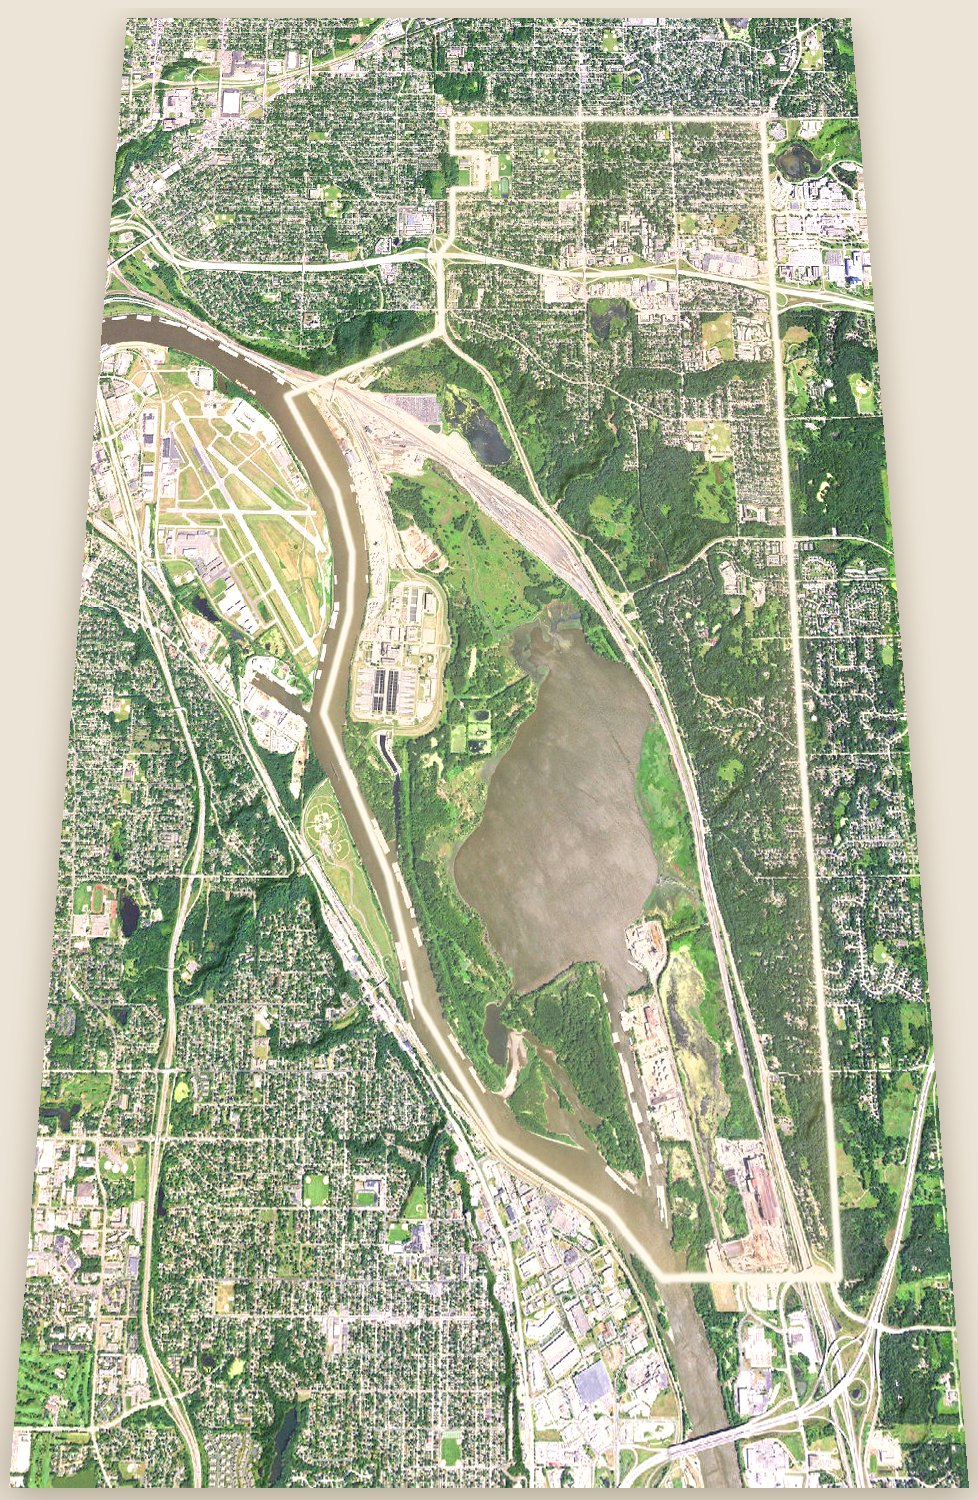
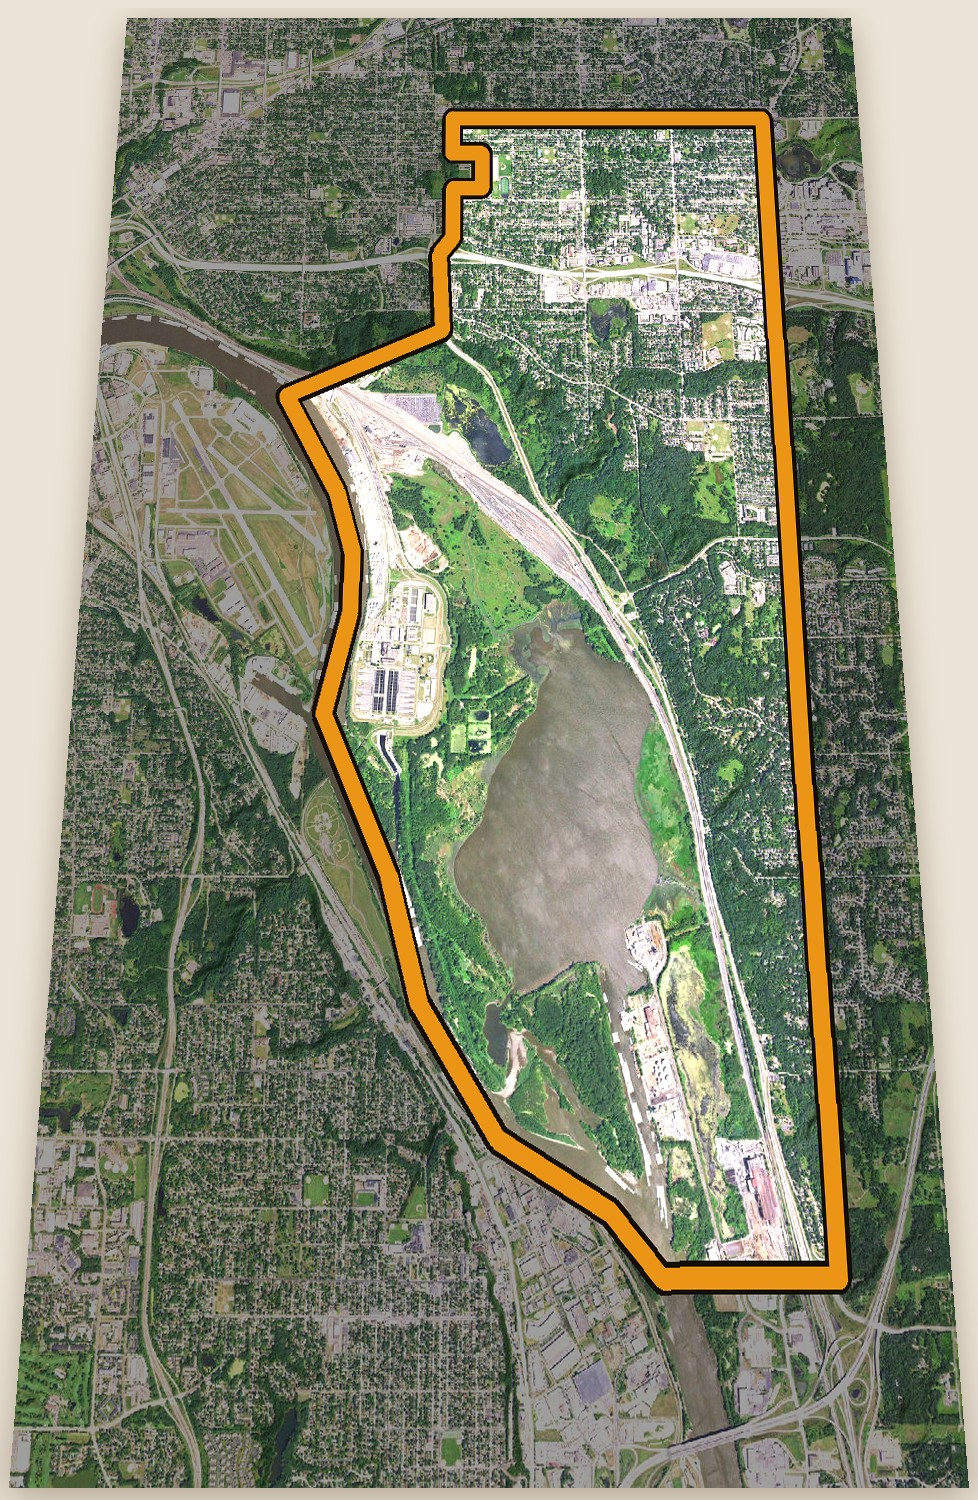
Make the District 1 outline readable and drop the food ranking. (#9)
The district boundary is a bold amber line with a dark halo, and the ground outside it is dimmed. The food copy now treats Suburban Avenue as one stretch, with no favorite or usual-stop lines.

diff --git a/battle-creek-saint-paul/index.html b/battle-creek-saint-paul/index.html
@@ -1014,7 +1014,7 @@ section.hero{min-height:0;padding-top:36px;padding-bottom:28px}
   <div class="bc-places-head">
     <p class="section-eyebrow">The tour, on a map</p>
     <h2 class="section-headline">Tap a place.</h2>
-    <p class="section-body">Ha Tien is my usual stop. Los Ocampo, Tea House, and Sabores are nearby options. I&rsquo;m naming them because they&rsquo;re close, not because they&rsquo;re my personal favorites.</p>
+    <p class="section-body">Suburban Avenue is a few minutes away, and the globe is at your fingertips.</p>
   </div>
 
   <div class="bc-map-wrap">
@@ -1101,8 +1101,8 @@ section.hero{min-height:0;padding-top:36px;padding-bottom:28px}
 <section class="es" id="food">
   <div class="es-head">
     <p class="section-eyebrow">A short drive for food</p>
-    <h2 class="section-headline">Ha Tien is the usual stop.</h2>
-    <p class="section-body">The others are options on the same side of town. Close. Worth knowing. Not a personal ranking.</p>
+    <h2 class="section-headline">Half the world, a few minutes up the road.</h2>
+    <p class="section-body">Vietnamese, Mexican, Sichuan and Latin, all on one stretch of Suburban Avenue.</p>
   </div>
   <div class="es-grid">
     <article class="es-card">
@@ -1208,8 +1208,7 @@ section.hero{min-height:0;padding-top:36px;padding-bottom:28px}
   <h2 class="section-headline">The short version.</h2>
   <p class="section-body">District 1 is Eastview, Conway, Battle Creek, and Highwood, plus the regional park. Battle Creek has no separate city boundary.<br /><br />
     The park is about 5 minutes, by Lower Afton and McKnight. Trails, machine-made-snow skiing, a sledding hill. Regions Hospital is about 9 minutes, at 640 Jackson Street. Downtown is about 11 minutes, and I-94 is a quick hop.<br /><br />
-    Ha Tien is my usual stop. Los Ocampo, Tea House, and Sabores are nearby options, not my personal favorites.<br /><br />
-    Ha Tien is at 1959 Suburban, about 4 minutes. Deli, roast pork and duck, and b&aacute;nh m&igrave; made to order. Son and Ne Dao have run it since 1996. The building was a Byerly&rsquo;s from 1971 until March 2016. They opened here on November 29, 2016.<br /><br />
+    Drive about three minutes up to Suburban Avenue and half the world is on one stretch. Tea House does Sichuan cooking, with dim sum on the weekend. Los Ocampo has been serving Mexican food here for years. Sabores is a Latin market with a butcher, a bakery, and a little restaurant inside. Ha Tien sits in the old Byerly&rsquo;s building, where Son and Ne Dao roast pork and duck and make bánh mì to order. They&rsquo;ve been at it since 1996. If you love a little bit of everything, the globe is at your fingertips.<br /><br />
     The creek was named in 1842 for a clash between Dakota and Ojibwe people. It runs toward Pig&rsquo;s Eye Lake. Highwood, just south, is named for the Highwood station. The walls in the tour are Sherwin-Williams Shoji White, SW 7042.</p>
 </div>
 
@@ -1266,7 +1265,7 @@ section.hero{min-height:0;padding-top:36px;padding-bottom:28px}
 
 <link rel="stylesheet" href="https://cdnjs.cloudflare.com/ajax/libs/leaflet/1.9.4/leaflet.css" />
 <script src="https://cdnjs.cloudflare.com/ajax/libs/leaflet/1.9.4/leaflet.js"></script>
-<script type="application/json" id="bcPlacesData">[{"id": "home", "name": "30 South B Street", "short": "30 B", "kicker": "The tour home", "addr": "30 S B St, St. Paul 55106", "drive": "", "lat": 44.94035, "lng": -93.02669, "text": "If you're curious about this house, let me know.", "photos": [{"src": "/battle-creek-saint-paul/img/30-south-b-map.jpg", "alt": "A shaded map of 30 South B Street and the blocks around it"}]}, {"id": "streets", "name": "Battle Creek streets", "short": "The streets", "kicker": "Around South B", "addr": "Around S B St", "drive": "", "lat": 44.9404, "lng": -93.0267, "text": "Big lots. Old oaks. Fall color.", "photos": [{"src": "/battle-creek-saint-paul/img/battle-creek-fall-street-1.jpg", "alt": "Fall trees along a Battle Creek street"}, {"src": "/battle-creek-saint-paul/img/battle-creek-fall-street-2.jpg", "alt": "Fall trees and wide lawns on a Battle Creek street"}]}, {"id": "park", "name": "Battle Creek Regional Park", "short": "The park", "kicker": "About 5 min", "addr": "Lower Afton Rd and McKnight Rd", "drive": "about 5 min", "lat": 44.94037, "lng": -92.9966, "text": "Trails, skiing, and a sledding hill.", "photos": [{"src": "/battle-creek-saint-paul/img/battle-creek-park-winter-trail.jpg", "alt": "A snowy trail through the trees at Battle Creek Regional Park"}]}, {"id": "rec", "name": "Battle Creek Recreation Center", "short": "Rec center", "kicker": "Close by", "addr": "75 Winthrop St. S., Saint Paul, MN 55119", "drive": "", "lat": 44.9386, "lng": -93.01286, "text": "The rec center and the neighborhood schools.", "photos": [{"src": "/battle-creek-saint-paul/img/battle-creek-rec-center.jpg", "alt": "Battle Creek Community Recreation Center from above"}]}, {"id": "regions", "name": "Regions Hospital", "short": "Regions", "kicker": "For work", "addr": "640 Jackson St", "drive": "about 9 min", "lat": 44.95585, "lng": -93.09469, "text": "St. Paul's Level I trauma center.", "photos": [{"src": "/battle-creek-saint-paul/img/regions-hospital.jpg", "alt": "The Regions Hospital building and its HealthPartners sign"}]}, {"id": "downtown", "name": "Downtown St. Paul", "short": "Downtown", "kicker": "About 11 min", "addr": "Downtown", "drive": "about 11 min", "lat": 44.94463, "lng": -93.09711, "text": "A quick hop to I-94.", "photos": [{"src": "/battle-creek-saint-paul/img/downtown-st-paul-skyline.jpg", "alt": "The downtown St. Paul skyline across the river"}]}, {"id": "ocampo", "num": 1, "name": "Los Ocampo", "short": "Los Ocampo", "kicker": "Nearby option", "addr": "1751 Suburban Ave", "drive": "about 3 min", "lat": 44.94979, "lng": -93.02624, "text": "A long-running Mexican restaurant.", "photos": [{"src": "/battle-creek-saint-paul/img/los-ocampo-storefront.jpg", "alt": "The Los Ocampo taqueria sign"}, {"src": "/battle-creek-saint-paul/img/los-ocampo-food.jpg", "alt": "A spread of tacos, seafood, and plates from Los Ocampo"}]}, {"id": "teahouse", "num": 2, "name": "Tea House", "short": "Tea House", "kicker": "Nearby option", "addr": "1676 Suburban Ave", "drive": "about 3 min", "lat": 44.95105, "lng": -93.02804, "text": "Sichuan cooking, and weekend dim sum.", "photos": [{"src": "/battle-creek-saint-paul/img/tea-house-fish.jpg", "alt": "A bowl of fish in a red chile sauce"}, {"src": "/battle-creek-saint-paul/img/tea-house-noodles.jpg", "alt": "A plate of noodles with meat and vegetables"}, {"src": "/battle-creek-saint-paul/img/tea-house-chicken.jpg", "alt": "Sesame chicken with broccoli"}]}, {"id": "sabores", "num": 3, "name": "Sabores Fresh Market", "short": "Sabores", "kicker": "Nearby option", "addr": "1990 Suburban Ave", "drive": "about 4 min", "lat": 44.9498, "lng": -93.01648, "text": "Butcher, bakery, produce, and a small restaurant.", "photos": [{"src": "/battle-creek-saint-paul/img/sabores-tacos.jpg", "alt": "Tacos on a plate with the Sabores Fresh Market mark"}, {"src": "/battle-creek-saint-paul/img/sabores-butcher.jpg", "alt": "A butcher counter with hanging cuts of meat"}, {"src": "/battle-creek-saint-paul/img/sabores-bakery.jpg", "alt": "Pastries in a bakery case"}]}, {"id": "hatien", "num": 4, "name": "Ha Tien Super Market", "short": "Ha Tien", "kicker": "My usual stop", "addr": "1959 Suburban Ave", "drive": "about 4 min", "lat": 44.95045, "lng": -93.01799, "text": "Son & Ne Dao, owners since 1996.", "photos": [{"src": "/battle-creek-saint-paul/img/ha-tien-owners-son-ne-dao.jpg", "alt": "Son and Ne Dao at Ha Tien"}]}, {"id": "pigseye", "name": "Pig's Eye Lake", "short": "Pig's Eye", "kicker": "The creek runs here", "addr": "Southwest of the neighborhood", "drive": "", "lat": 44.91053, "lng": -93.02913, "text": "Pelicans and bald eagles.", "photos": [{"src": "/battle-creek-saint-paul/img/pigs-eye-lake-pelicans.jpg", "alt": "White pelicans lifting off the water at Pig's Eye Lake"}]}, {"id": "highwood", "name": "Highwood", "short": "Highwood", "kicker": "Just south", "addr": "Highwood Hills", "drive": "", "lat": 44.91491, "lng": -93.0146, "text": "Highwood Hills, in fall.", "photos": [{"src": "/battle-creek-saint-paul/img/highwood.jpg", "alt": "Highwood Hills Recreation Center and park in fall"}]}]</script>
+<script type="application/json" id="bcPlacesData">[{"id": "home", "name": "30 South B Street", "short": "30 B", "kicker": "The tour home", "addr": "30 S B St, St. Paul 55106", "drive": "", "lat": 44.94035, "lng": -93.02669, "text": "If you're curious about this house, let me know.", "photos": [{"src": "/battle-creek-saint-paul/img/30-south-b-map.jpg", "alt": "A shaded map of 30 South B Street and the blocks around it"}]}, {"id": "streets", "name": "Battle Creek streets", "short": "The streets", "kicker": "Around South B", "addr": "Around S B St", "drive": "", "lat": 44.9404, "lng": -93.0267, "text": "Big lots. Old oaks. Fall color.", "photos": [{"src": "/battle-creek-saint-paul/img/battle-creek-fall-street-1.jpg", "alt": "Fall trees along a Battle Creek street"}, {"src": "/battle-creek-saint-paul/img/battle-creek-fall-street-2.jpg", "alt": "Fall trees and wide lawns on a Battle Creek street"}]}, {"id": "park", "name": "Battle Creek Regional Park", "short": "The park", "kicker": "About 5 min", "addr": "Lower Afton Rd and McKnight Rd", "drive": "about 5 min", "lat": 44.94037, "lng": -92.9966, "text": "Trails, skiing, and a sledding hill.", "photos": [{"src": "/battle-creek-saint-paul/img/battle-creek-park-winter-trail.jpg", "alt": "A snowy trail through the trees at Battle Creek Regional Park"}]}, {"id": "rec", "name": "Battle Creek Recreation Center", "short": "Rec center", "kicker": "Close by", "addr": "75 Winthrop St. S., Saint Paul, MN 55119", "drive": "", "lat": 44.9386, "lng": -93.01286, "text": "The rec center and the neighborhood schools.", "photos": [{"src": "/battle-creek-saint-paul/img/battle-creek-rec-center.jpg", "alt": "Battle Creek Community Recreation Center from above"}]}, {"id": "regions", "name": "Regions Hospital", "short": "Regions", "kicker": "For work", "addr": "640 Jackson St", "drive": "about 9 min", "lat": 44.95585, "lng": -93.09469, "text": "St. Paul's Level I trauma center.", "photos": [{"src": "/battle-creek-saint-paul/img/regions-hospital.jpg", "alt": "The Regions Hospital building and its HealthPartners sign"}]}, {"id": "downtown", "name": "Downtown St. Paul", "short": "Downtown", "kicker": "About 11 min", "addr": "Downtown", "drive": "about 11 min", "lat": 44.94463, "lng": -93.09711, "text": "A quick hop to I-94.", "photos": [{"src": "/battle-creek-saint-paul/img/downtown-st-paul-skyline.jpg", "alt": "The downtown St. Paul skyline across the river"}]}, {"id": "ocampo", "num": 1, "name": "Los Ocampo", "short": "Los Ocampo", "kicker": "Nearby option", "addr": "1751 Suburban Ave", "drive": "about 3 min", "lat": 44.94979, "lng": -93.02624, "text": "A long-running Mexican restaurant.", "photos": [{"src": "/battle-creek-saint-paul/img/los-ocampo-storefront.jpg", "alt": "The Los Ocampo taqueria sign"}, {"src": "/battle-creek-saint-paul/img/los-ocampo-food.jpg", "alt": "A spread of tacos, seafood, and plates from Los Ocampo"}]}, {"id": "teahouse", "num": 2, "name": "Tea House", "short": "Tea House", "kicker": "Nearby option", "addr": "1676 Suburban Ave", "drive": "about 3 min", "lat": 44.95105, "lng": -93.02804, "text": "Sichuan cooking, and weekend dim sum.", "photos": [{"src": "/battle-creek-saint-paul/img/tea-house-fish.jpg", "alt": "A bowl of fish in a red chile sauce"}, {"src": "/battle-creek-saint-paul/img/tea-house-noodles.jpg", "alt": "A plate of noodles with meat and vegetables"}, {"src": "/battle-creek-saint-paul/img/tea-house-chicken.jpg", "alt": "Sesame chicken with broccoli"}]}, {"id": "sabores", "num": 3, "name": "Sabores Fresh Market", "short": "Sabores", "kicker": "Nearby option", "addr": "1990 Suburban Ave", "drive": "about 4 min", "lat": 44.9498, "lng": -93.01648, "text": "Butcher, bakery, produce, and a small restaurant.", "photos": [{"src": "/battle-creek-saint-paul/img/sabores-tacos.jpg", "alt": "Tacos on a plate with the Sabores Fresh Market mark"}, {"src": "/battle-creek-saint-paul/img/sabores-butcher.jpg", "alt": "A butcher counter with hanging cuts of meat"}, {"src": "/battle-creek-saint-paul/img/sabores-bakery.jpg", "alt": "Pastries in a bakery case"}]}, {"id": "hatien", "num": 4, "name": "Ha Tien Super Market", "short": "Ha Tien", "kicker": "Suburban Avenue", "addr": "1959 Suburban Ave", "drive": "about 4 min", "lat": 44.95045, "lng": -93.01799, "text": "Son & Ne Dao, owners since 1996.", "photos": [{"src": "/battle-creek-saint-paul/img/ha-tien-owners-son-ne-dao.jpg", "alt": "Son and Ne Dao at Ha Tien"}]}, {"id": "pigseye", "name": "Pig's Eye Lake", "short": "Pig's Eye", "kicker": "The creek runs here", "addr": "Southwest of the neighborhood", "drive": "", "lat": 44.91053, "lng": -93.02913, "text": "Pelicans and bald eagles.", "photos": [{"src": "/battle-creek-saint-paul/img/pigs-eye-lake-pelicans.jpg", "alt": "White pelicans lifting off the water at Pig's Eye Lake"}]}, {"id": "highwood", "name": "Highwood", "short": "Highwood", "kicker": "Just south", "addr": "Highwood Hills", "drive": "", "lat": 44.91491, "lng": -93.0146, "text": "Highwood Hills, in fall.", "photos": [{"src": "/battle-creek-saint-paul/img/highwood.jpg", "alt": "Highwood Hills Recreation Center and park in fall"}]}]</script>
 <script>
 (function () {
   function mountVideos() {
